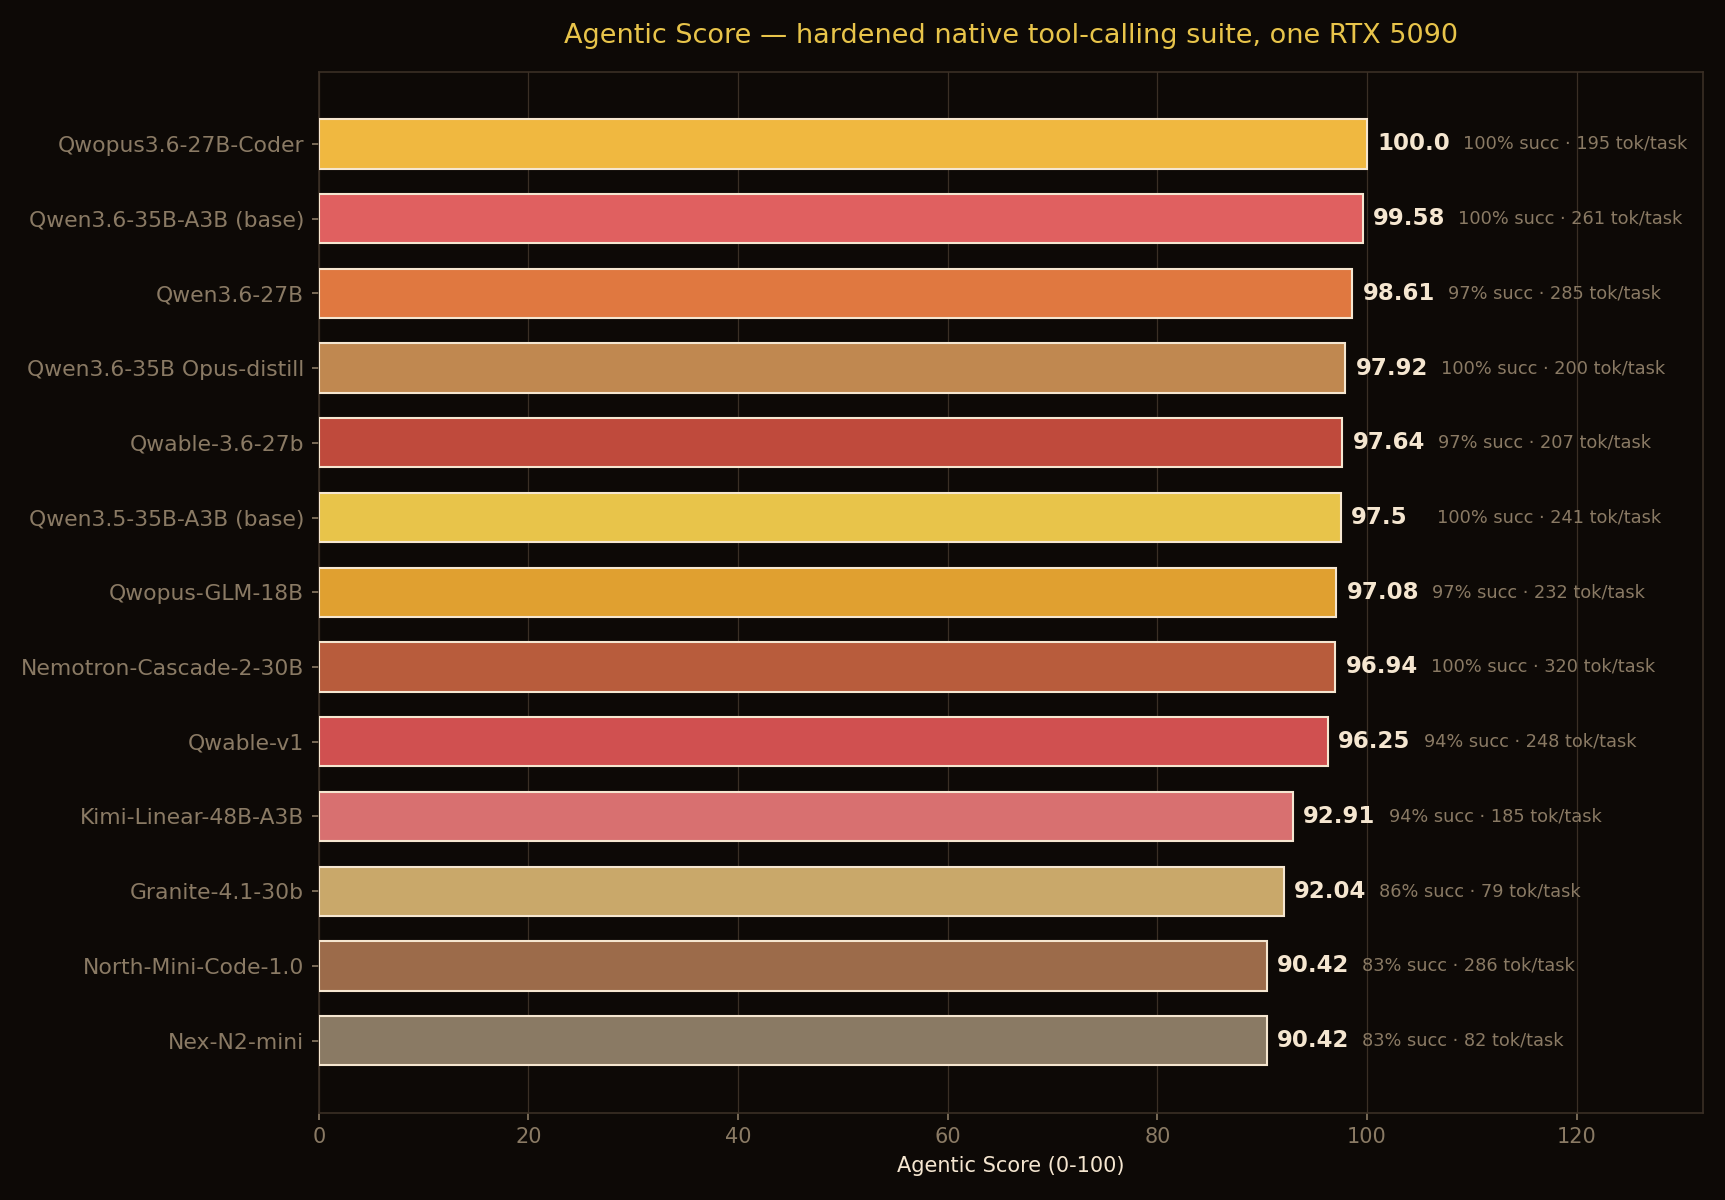
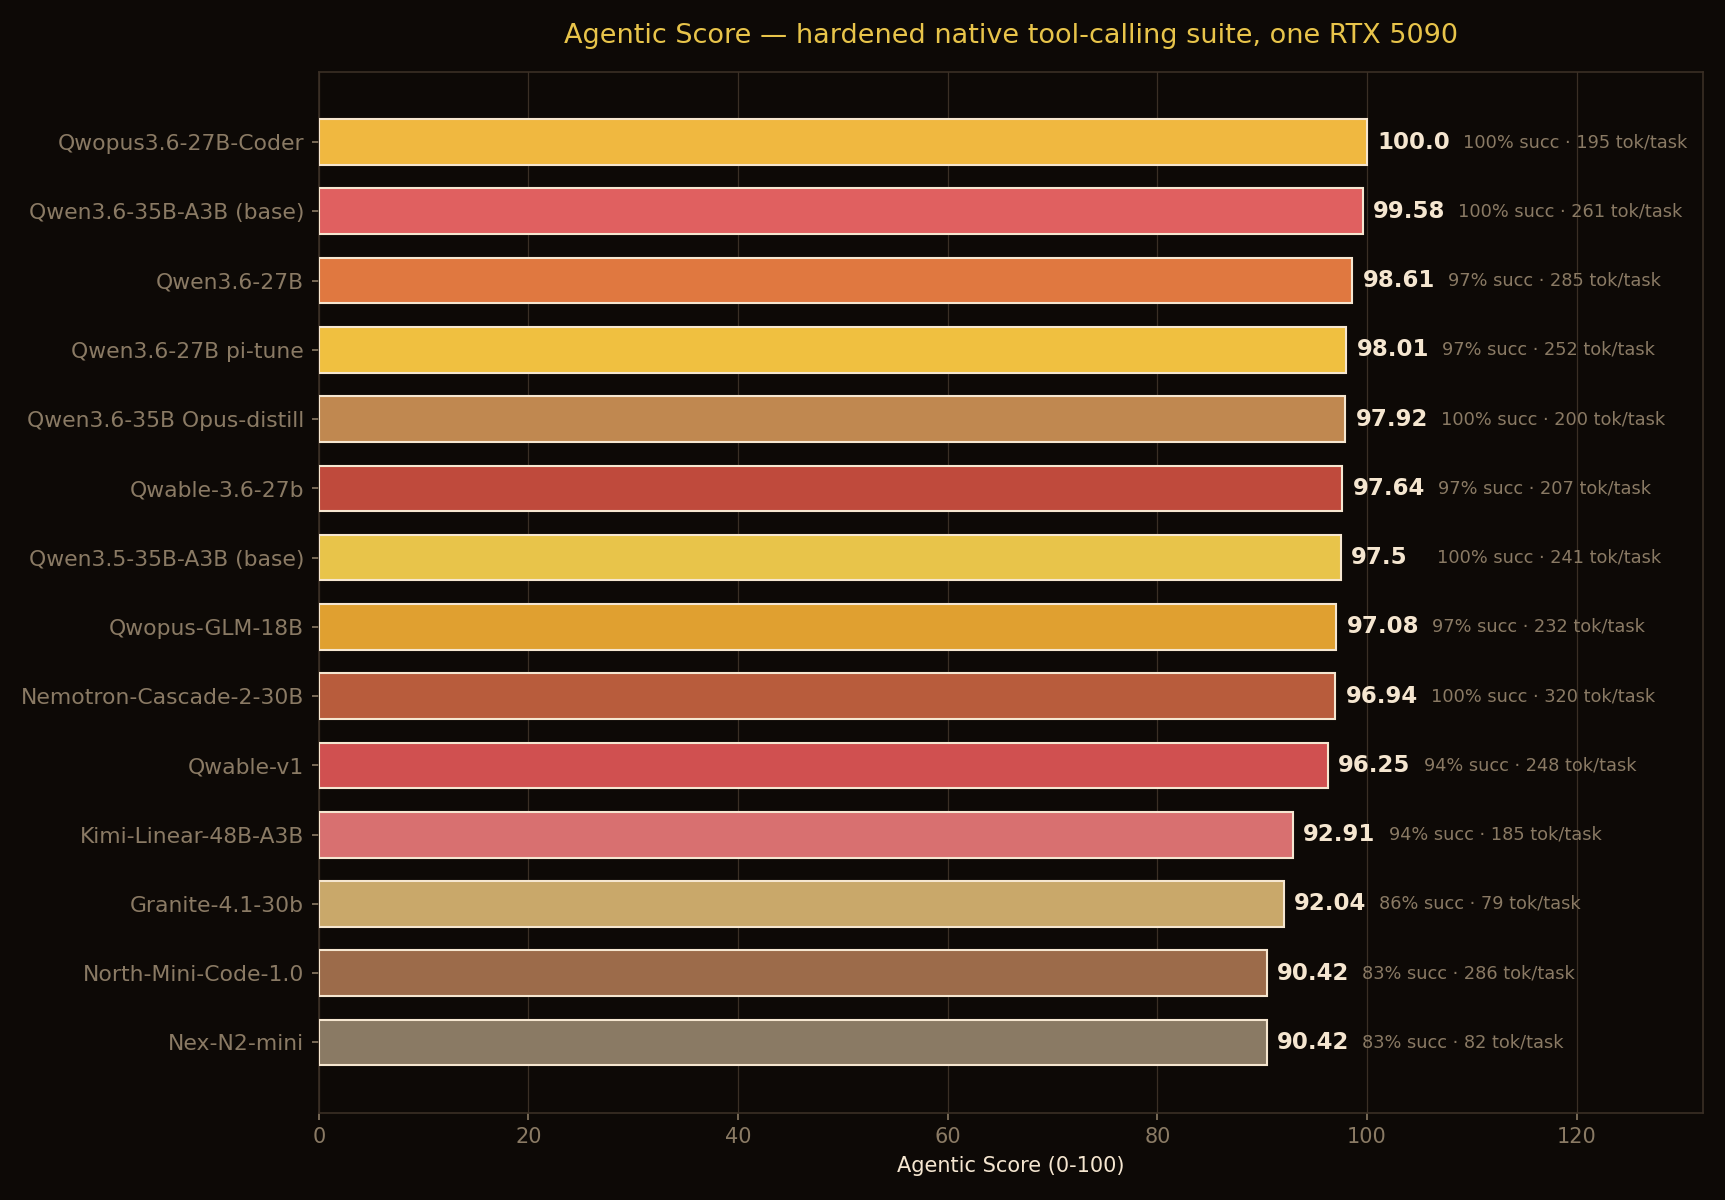
Qwen3.6-27B pi-tune: real-trace SFT improves real SWE +1 where synthetic-distill tunes regressed
Controlled vs its Qwen3.6-27B base at matched Q6_K, four legs. Quality (93.3 vs 94.0) and
agentic (98.01 vs 98.61) flat; real SWE-bench Verified UP 19->20/30 (+2/-1 swap, give-ups
8->6); MTP drafter preserved (2.0-2.4x vs base 1.8-2.2x) where Qwopus-Coder's degraded.
Third Qwen3.6-27B coding tune: synthetic agentic a 2.4pt band across all three while real
SWE spans 11-20 -- provenance (real traces) beats synthetic distill, only the anchor sees
it. Adds report + provenance chart + pi-tune board row (now 14 models).

diff --git a/scripts/chart_pitune_provenance.py b/scripts/chart_pitune_provenance.py
@@ -1,0 +1,54 @@
+"""Gold & Crimson chart for Qwen3.6-27B pi-tune: the synthetic agentic score is a narrow band while
+real SWE-bench resolve spreads wide — and training-data provenance, not the 'agentic' label, tracks
+real capability. Scatter: agentic (x) vs SWE-bench resolved/30 (y), colored by provenance. pi-tune
+(real traces) is the only tune that improves. Runs on the Mac (system python3 matplotlib)."""
+import matplotlib
+matplotlib.use("Agg")
+import matplotlib.pyplot as plt
+from matplotlib.lines import Line2D
+
+BG, GOLD, CRIMSON, TEXT, GRID, MUTE = ("#0d0906", "#e8c44a", "#e06060", "#f5e6d0", "#3a2f25", "#8a7a64")
+
+# (label, agentic, resolved/30, color, marker_size)
+pts = [
+    ("Qwen3.6-27B base",                 98.61, 19, MUTE,    260),
+    ("pi-tune  (real agent traces)",     98.01, 20, GOLD,    540),
+    ("Qwopus-Coder  (Hermes distill)",   100.0, 17, CRIMSON, 300),
+    ("Qwable-3.6-27b  (Fable-5 distill)", 97.64, 11, CRIMSON, 300),
+]
+
+fig, ax = plt.subplots(figsize=(11, 7), facecolor=BG)
+ax.set_facecolor(BG)
+
+# the synthetic-agentic cluster: all four within a ~2.4pt band
+ax.axvspan(97.4, 100.2, color=GOLD, alpha=0.06, zorder=0)
+ax.axhline(19, color=MUTE, lw=1, ls="--", alpha=0.5, zorder=1)
+ax.annotate("base = 19/30", (96.95, 19), color=MUTE, fontsize=9, va="bottom", ha="left",
+            xytext=(0, 3), textcoords="offset points")
+
+for label, ag, sw, color, sz in pts:
+    ax.scatter([ag], [sw], s=sz, color=color, edgecolor=TEXT, linewidth=1.3, zorder=4)
+    big = color == GOLD
+    ax.annotate(label, (ag, sw), color=(GOLD if big else TEXT), fontsize=(11.5 if big else 9.5),
+                fontweight=("bold" if big else "normal"), ha="center", va="bottom",
+                xytext=(0, 15 if big else 12), textcoords="offset points")
+
+ax.set_xlabel("synthetic Agentic Score  (native tool-calling, 40 tasks)", color=TEXT)
+ax.set_ylabel("real SWE-bench Verified resolved  (of 30)", color=TEXT)
+ax.set_xlim(96.8, 101.0)
+ax.set_ylim(8, 22.5)
+ax.set_title("the synthetic score is a narrow band. real bugs are not.", color=GOLD, fontsize=14, pad=18)
+ax.text(0.5, 1.015,
+        "Qwen3.6-27B + 3 coding tunes · agentic clusters 97.6-100 (a 2.4pt band) while real SWE spans 11-20/30 · color = training-data provenance",
+        transform=ax.transAxes, color=MUTE, fontsize=9, ha="center")
+ax.tick_params(colors=TEXT)
+for sp in ax.spines.values():
+    sp.set_color(GRID)
+ax.grid(True, color=GRID, alpha=0.35)
+leg = [Line2D([0], [0], marker="o", color="none", markerfacecolor=GOLD, markeredgecolor=TEXT, markersize=12, label="real agent traces (improves)"),
+       Line2D([0], [0], marker="o", color="none", markerfacecolor=CRIMSON, markeredgecolor=TEXT, markersize=11, label="synthetic distill (regresses)"),
+       Line2D([0], [0], marker="o", color="none", markerfacecolor=MUTE, markeredgecolor=TEXT, markersize=11, label="untuned base")]
+ax.legend(handles=leg, loc="lower right", facecolor=BG, edgecolor=GRID, fontsize=9, labelcolor=TEXT)
+fig.tight_layout()
+fig.savefig("reports/pi-tune-provenance.png", dpi=150, facecolor=BG)
+print("wrote reports/pi-tune-provenance.png")

diff --git a/scripts/chart_agentic_leaderboard.py b/scripts/chart_agentic_leaderboard.py
@@ -9,11 +9,12 @@ import numpy as np
 BG, GOLD, CRIMSON, TEXT, GRID, MUTE = ("#0d0906", "#e8c44a", "#e06060", "#f5e6d0", "#3a2f25", "#8a7a64")
 AMBER = "#d8902f"
 
-# 13-model board (ordered by Agentic Score). Warm brand palette, varied for legibility.
+# 14-model board (ordered by Agentic Score). Warm brand palette, varied for legibility.
 MODELS = [
     ("qwopus3-6-27b-coder", "Qwopus3.6-27B-Coder",    "#f0b840"),
     ("qwen3-6-35b-base",    "Qwen3.6-35B-A3B (base)", CRIMSON),
     ("qwen3-6-27b",         "Qwen3.6-27B",            "#e07840"),
+    ("pi-tune-q6-k",        "Qwen3.6-27B pi-tune",    "#f0c040"),
     ("qwen3-6-35b-opus-distill", "Qwen3.6-35B Opus-distill", "#c08850"),
     ("qwable-27b-q4-k-m",   "Qwable-3.6-27b",         "#bf4a3c"),
     ("qwen3-5-35b-base",    "Qwen3.5-35B-A3B (base)", GOLD),
@@ -43,7 +44,7 @@ SHORT = {"qwen3-6-27b": "Qwen3.6-27B", "qwen3-5-35b-base": "Qwen3.5 base",
          "nex-n2-mini": "Nex-N2-mini", "qwopus3-6-27b-coder": "Qwopus-Coder",
          "north-mini-code": "North-Mini", "qwen3-6-35b-base": "Qwen3.6 base",
          "qwen3-6-35b-opus-distill": "Opus-distill", "qwable-v1": "Qwable-v1",
-         "qwable-27b-q4-k-m": "Qwable-27b"}
+         "qwable-27b-q4-k-m": "Qwable-27b", "pi-tune-q6-k": "pi-tune"}
 fig, ax = plt.subplots(figsize=(13.5, 8), facecolor=BG); ax.set_facecolor(BG)
 # sort by x (tokens) and alternate label up/down so x-adjacent points never collide
 by_x = sorted(MODELS, key=lambda m: D[m[0]]["tokens_per_task"])

diff --git a/scripts/build_agentic_leaderboard.py b/scripts/build_agentic_leaderboard.py
@@ -45,6 +45,9 @@ META = {
     "qwable-27b-q4-k-m":   {"name": "Qwable-3.6-27b", "params": "27B", "quant": "Q4_K_M",
                             "repo": "Mia-AiLab/Qwable-3.6-27b",
                             "note": "dense Qwen3.6-27B + Fable-5-style reasoning/instruction SFT. Matched-Q4 vs its base: quality AND agentic stay flat (97.64 vs 98.19), but real SWE-bench resolve drops 18→11/30 and give-ups rise 7→13 — a genuine bug-fixing regression the synthetic score MISSED (unlike the MoE Qwable-v1, whose agentic score declined). The anchor caught it; quant ruled out (base Q6→Q4 = −1 bug)"},
+    "pi-tune-q6-k":        {"name": "Qwen3.6-27B pi-tune", "params": "27B", "quant": "Q6_K",
+                            "repo": "bytkim/Qwen3.6-27B-MTP-pi-tune-GGUF",
+                            "note": "dense Qwen3.6-27B QLoRA SFT on REAL non-thinking agent traces (terminal/tool/repo). Matched-Q6 vs its base: quality and agentic flat (98.01 vs 98.61), but real SWE-bench resolve IMPROVES 19 to 20/30 with FEWER give-ups (8 to 6), and its MTP drafter held (2.0-2.4x vs base 1.8-2.2x) where Qwopus-Coder's degraded. First of three Qwen3.6-27B coding tunes to improve real bug-fixing: provenance (real traces) beats synthetic distill, and only the anchor separates them (synthetic agentic a 2.4pt band, real SWE spans 11-20)"},
 }
 
 rows = []

diff --git a/reports/qwen3-6-27b-pi-tune.md b/reports/qwen3-6-27b-pi-tune.md
@@ -1,0 +1,46 @@
+# Qwen3.6-27B pi-tune: the coding tune that actually works — real agent traces beat synthetic distill
+
+**Rig:** one RTX 5090 32GB · llama.cpp 9dbc662 (qwen35) · llama-server `--jinja` native tool-calling · Q6_K, matched vs base (no quant confound)
+**Model:** [bytkim/Qwen3.6-27B-MTP-pi-tune](https://huggingface.co/bytkim/Qwen3.6-27B-MTP-pi-tune-GGUF) — a full QLoRA SFT of **Qwen3.6-27B** on **real non-thinking agent traces** (terminal/shell, tool-calling, code editing, repo work, DevOps), with an integrated MTP draft head. Apache-2.0. Honest card: Terminal-Bench 2.0 pass@1 = 28.09, other coding evals "not finalized."
+**Setup:** four legs at matched Q6_K vs its own base — quality (5-task), native Agentic Score (40 tool-calling tasks), the SWE-bench Verified reality anchor (30-bug subset, official Docker harness), and MTP speedup by workload. Read against two prior Qwen3.6-27B coding tunes: Qwopus3.6-27B-Coder and Qwable-3.6-27b.
+
+## The numbers (matched Q6_K)
+
+| leg | base Qwen3.6-27B | pi-tune | vs base |
+|---|---|---|---|
+| quality q_avg | 94.05 | 93.30 | −0.75 (flat) |
+| agentic score | 98.61 | 98.01 | −0.60 (flat) |
+| **SWE-bench resolved** | 19/30 | **20/30** | **+1, give-ups 8 → 6** |
+| MTP speedup (per workload) | 1.8–2.2× | **2.0–2.4×** | preserved/improved |
+
+**Every cheap eval is flat. Real bug-fixing went up.** pi-tune resolves one more of the same 30 bugs than its base — it solves **2 the base couldn't** (`astropy-14539`, `sympy-23950`) and drops 1 (`requests-5414`) — with a lower give-up (empty-patch) rate. And its MTP drafter **survived the fine-tune** (2.0–2.4×, climbing with predictability) where a sibling coder's collapsed to a flat 1.4–1.6×.
+
+## The cross-model finding: provenance, not the label
+
+Three Qwen3.6-27B coding tunes now, same base, same anchor:
+
+| tune (training data) | agentic | real SWE | verdict |
+|---|---|---|---|
+| **pi-tune** (real non-thinking agent traces) | 98.01 | **20/30** | improves |
+| Qwopus-Coder (Hermes agent traces) | 100.0 | 17/30 | regresses + in-distribution mirage |
+| Qwable-3.6-27b (Claude Fable-5 distill) | 97.64 | 11/30 | regresses, synthetic missed it |
+| *base* | 98.61 | 19/30 | — |
+
+**The synthetic agentic score is a narrow 2.4pt band (97.6–100) across all three — yet real SWE spans 11 → 20.** The cheap axis cannot separate them; pi-tune even has the *lowest* q_avg of the group while resolving the *most* real bugs. The variable that tracks real capability is **what the model was trained on**: real agent traces improved it; synthetic Claude/Hermes distill regressed it. The "agentic coder" label is not the signal — the data provenance is.
+
+## What it means
+
+- **Real traces preserve capability; synthetic distill narrows it.** The give-up rate is the tell — pi-tune gives up *less* (6 vs base 8), the distill tunes *more* (Qwable 13). SFT on real terminal/repo trajectories taught it to keep solving; SFT on synthetic agent dialogue taught a cautious style that quits.
+- **The drafter is a second capability the SFT can wreck — or keep.** Fine-tuning re-rolls the MTP head's acceptance (the drafter must re-earn the new output distribution). Qwopus-Coder's dropped to 1.4–1.6×; pi-tune's held at 2.0–2.4×. Same split as quality and SWE: the real-trace tune kept what the synthetic tunes lost.
+- **A modest, honest win.** +1 bug is within single-seed noise — but the *direction* (resolve up, give-ups down, drafter intact) is consistent across legs, and it's the only one of three tunes pointing that way.
+
+## Honest caveats
+
+- Single seed, 30-bug subset — the direction is the signal, not the exact count. The +1 is a real +2/−1 swap, not a tie.
+- MTP "speedup" is the rig's proxy (vs a fresh non-MTP base baseline at 62 tok/s); I did not read the raw acceptance counter, so I report "preserved/strong," not the card's exact 78%.
+- The model is think-OFF-tuned; the agentic codeact/multistep axes use `think:true` (same config as base for fairness — may slightly understate it).
+- This is *this* checkpoint's real-trace SFT vs *those* synthetic-distill recipes — a provenance contrast across three tunes, not one controlled variable.
+
+## Reproduce
+
+`gate_and_run.sh <gguf> <slug>` (Agentic Score) + `swe_gen_one.sh`/`swe_grade_one.sh` (SWE-bench, 30-bug `swebench_ids_30.txt`) + `run_treatment.sh` (quality) + `bench_mtp_workload.sh` (MTP speedup) + `build_agentic_leaderboard.py`. One model at matched Q6 vs the cached base, ~5h on one 5090.

diff --git a/leaderboard/README.md b/leaderboard/README.md
@@ -27,16 +27,17 @@ Updated **2026-06-17** · llama.cpp b9562 · `--jinja` native tool-calling · te
 | 1 | **Qwopus3.6-27B-Coder** 🏆 | 27B | **100.0** | 100% | 1.00 | 195 | 8/8 | 8/8 | 8/8 | - | - |
 | 2 | **Qwen3.6-35B-A3B (base)** | 35B-A3B | **99.58** | 100% | 0.98 | 261 | 8/8 | 8/8 | 8/8 | - | - |
 | 3 | **Qwen3.6-27B** | 27B | **98.61** | 97% | 1.00 | 285 | 8/8 | 8/8 | 8/8 | 100% | 100% |
-| 4 | **Qwen3.6-35B-A3B Opus-distill** | 35B-A3B | **97.92** | 100% | 0.90 | 200 | 8/8 | 8/8 | 8/8 | - | - |
-| 5 | **Qwable-3.6-27b** | 27B | **97.64** | 97% | 0.95 | 207 | 8/8 | 8/8 | 8/8 | - | - |
-| 6 | **Qwen3.5-35B-A3B (base)** | 35B-A3B | **97.5** | 100% | 0.88 | 241 | 8/8 | 8/8 | 8/8 | 100% | 50% |
-| 7 | **Qwopus-GLM-18B** | 18B | **97.08** | 97% | 0.92 | 232 | 8/8 | 8/8 | 8/8 | 100% | 100% |
-| 8 | **Nemotron-Cascade-2-30B** | 30B-A3B | **96.94** | 100% | 0.85 | 320 | 8/8 | 8/8 | 8/8 | 50% | 0% |
-| 9 | **Qwable-v1** | 35B-A3B | **96.25** | 94% | 0.95 | 248 | 7/8 | 8/8 | 8/8 | - | - |
-| 10 | **Kimi-Linear-48B-A3B** | 48B-A3B | **92.91** | 94% | 0.78 | 185 | 7/8 | 7/8 | 8/8 | 100% | 100% |
-| 11 | **Granite-4.1-30b** | 30B | **92.04** | 86% | 0.95 | 79 | 8/8 | 8/8 | 7/8 | 50% | OOM |
-| 12 | **Nex-N2-mini** | 35B-A3B | **90.42** | 83% | 0.94 | 82 | 7/8 | 7/8 | 7/8 | 100% | 100% |
-| 13 | **North-Mini-Code-1.0** | 30B-A3B | **90.42** | 83% | 0.94 | 286 | 6/8 | 6/8 | 8/8 | - | - |
+| 4 | **Qwen3.6-27B pi-tune** | 27B | **98.01** | 97% | 0.97 | 252 | 8/8 | 8/8 | 8/8 | - | - |
+| 5 | **Qwen3.6-35B-A3B Opus-distill** | 35B-A3B | **97.92** | 100% | 0.90 | 200 | 8/8 | 8/8 | 8/8 | - | - |
+| 6 | **Qwable-3.6-27b** | 27B | **97.64** | 97% | 0.95 | 207 | 8/8 | 8/8 | 8/8 | - | - |
+| 7 | **Qwen3.5-35B-A3B (base)** | 35B-A3B | **97.5** | 100% | 0.88 | 241 | 8/8 | 8/8 | 8/8 | 100% | 50% |
+| 8 | **Qwopus-GLM-18B** | 18B | **97.08** | 97% | 0.92 | 232 | 8/8 | 8/8 | 8/8 | 100% | 100% |
+| 9 | **Nemotron-Cascade-2-30B** | 30B-A3B | **96.94** | 100% | 0.85 | 320 | 8/8 | 8/8 | 8/8 | 50% | 0% |
+| 10 | **Qwable-v1** | 35B-A3B | **96.25** | 94% | 0.95 | 248 | 7/8 | 8/8 | 8/8 | - | - |
+| 11 | **Kimi-Linear-48B-A3B** | 48B-A3B | **92.91** | 94% | 0.78 | 185 | 7/8 | 7/8 | 8/8 | 100% | 100% |
+| 12 | **Granite-4.1-30b** | 30B | **92.04** | 86% | 0.95 | 79 | 8/8 | 8/8 | 7/8 | 50% | OOM |
+| 13 | **Nex-N2-mini** | 35B-A3B | **90.42** | 83% | 0.94 | 82 | 7/8 | 7/8 | 7/8 | 100% | 100% |
+| 14 | **North-Mini-Code-1.0** | 30B-A3B | **90.42** | 83% | 0.94 | 286 | 6/8 | 6/8 | 8/8 | - | - |
 
 *tool-eff = tool calls vs optimal (1.0 = no wasted calls). tokens/task = avg completion tokens (lower =
 leaner). A sub-5% score gap is a tie.*
@@ -78,6 +79,7 @@ Harness + unit tests: **[notwitcheer/llm-bench-rig](https://github.com/notwitche
 - **Qwopus3.6-27B-Coder** (Jackrong/Qwopus3.6-27B-Coder-MTP-GGUF): coder SFT of Qwopus3.6-v2; trained on Hermes agent traces — partially in-distribution for this bench (see reality anchor)
 - **Qwen3.6-35B-A3B (base)** (unsloth/Qwen3.6-35B-A3B-GGUF): vanilla generalist base — Qwable's untuned starting point; tops the board and ties best real SWE-bench resolve (19/30)
 - **Qwen3.6-27B** (unsloth/Qwen3.6-27B-GGUF): dense 27B; the model Donald itself runs
+- **Qwen3.6-27B pi-tune** (bytkim/Qwen3.6-27B-MTP-pi-tune-GGUF): dense Qwen3.6-27B QLoRA SFT on REAL non-thinking agent traces (terminal/tool/repo). Matched-Q6 vs its base: quality and agentic flat (98.01 vs 98.61), but real SWE-bench resolve IMPROVES 19 to 20/30 with FEWER give-ups (8 to 6), and its MTP drafter held (2.0-2.4x vs base 1.8-2.2x) where Qwopus-Coder's degraded. First of three Qwen3.6-27B coding tunes to improve real bug-fixing: provenance (real traces) beats synthetic distill, and only the anchor separates them (synthetic agentic a 2.4pt band, real SWE spans 11-20)
 - **Qwen3.6-35B-A3B Opus-distill** (mradermacher/Qwen3.6-35B-A3B-Claude-4.7-Opus-Reasoning-Distilled-GGUF): base + Claude Opus-4.7 reasoning distill — the intermediate step before Qwable's Fable-5 agentic SFT
 - **Qwable-3.6-27b** (Mia-AiLab/Qwable-3.6-27b): dense Qwen3.6-27B + Fable-5-style reasoning/instruction SFT. Matched-Q4 vs its base: quality AND agentic stay flat (97.64 vs 98.19), but real SWE-bench resolve drops 18→11/30 and give-ups rise 7→13 — a genuine bug-fixing regression the synthetic score MISSED (unlike the MoE Qwable-v1, whose agentic score declined). The anchor caught it; quant ruled out (base Q6→Q4 = −1 bug)
 - **Qwen3.5-35B-A3B (base)** (bartowski/Qwen_Qwen3.5-35B-A3B-GGUF): generalist base, no agentic post-train
